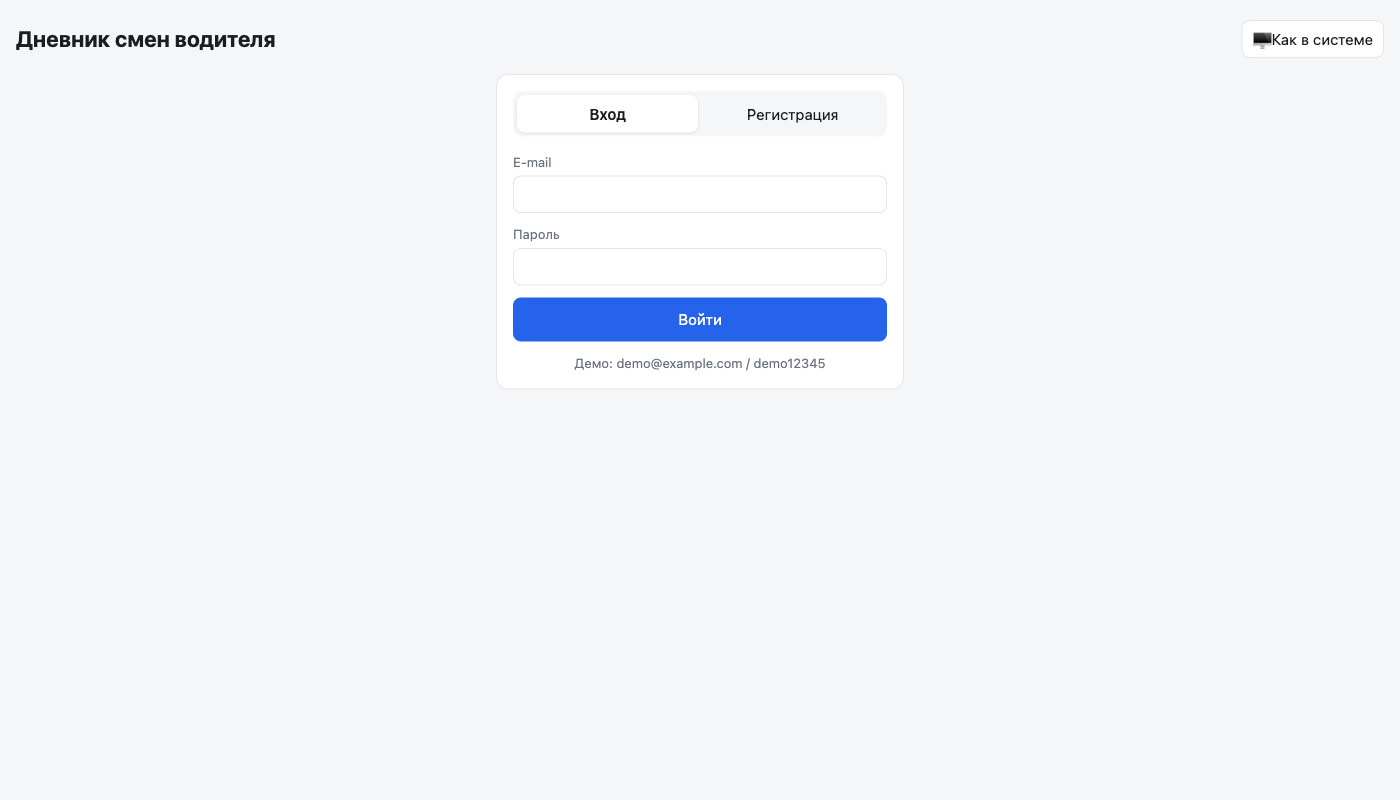
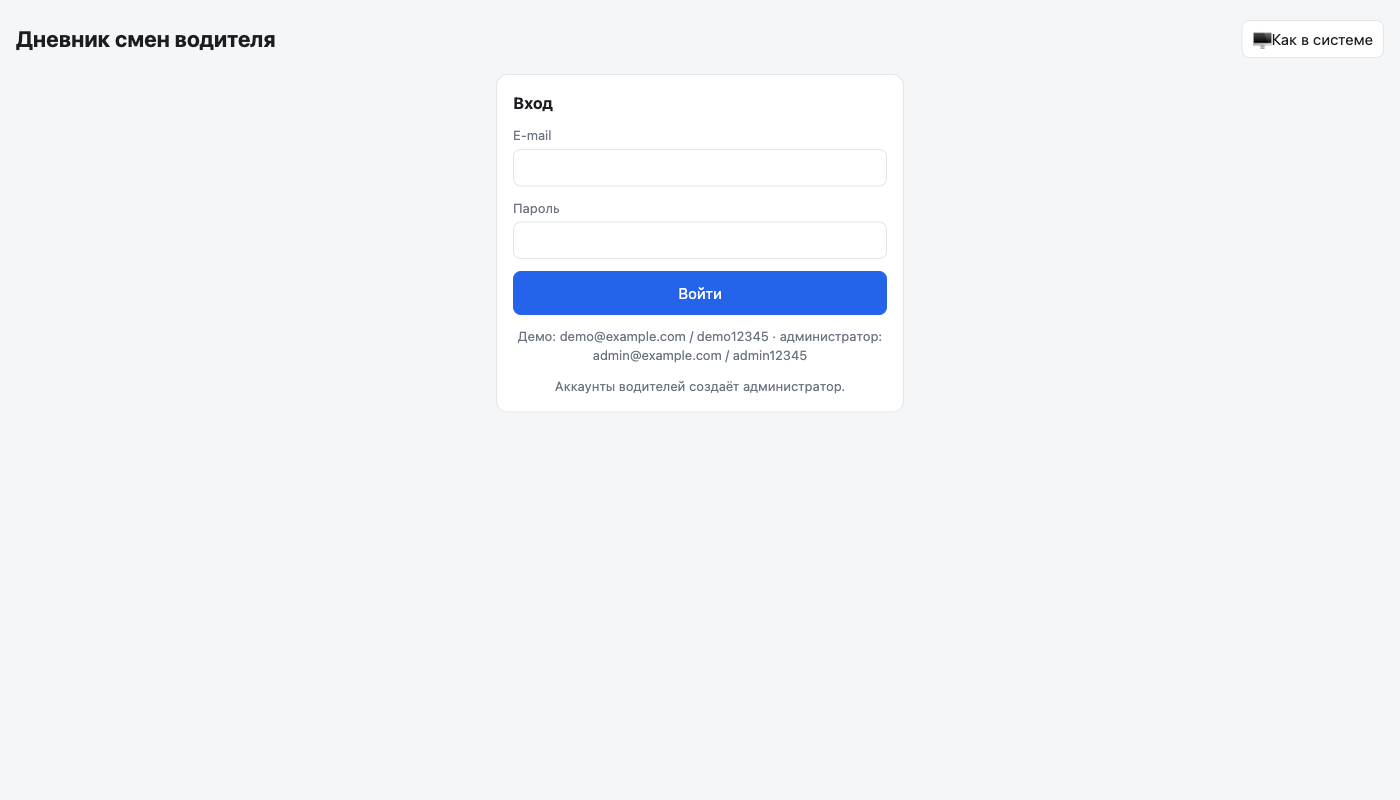
README and config for the admin role
- README: roles and rights table, creating the first admin, /api/admin/*,
  commission rules and rounding, schema changes for existing databases,
  new entries in "where AI got it wrong"
- ADMIN_EMAIL / ADMIN_PASSWORD in docker-compose.yml and .env.example
- Login and day screenshots retaken on the Docker build

diff --git a/README.md b/README.md
@@ -1,12 +1,12 @@
 # Дневник смен водителя
 
-Веб-приложение для водителя: личный кабинет, сводка за день (поездки, выручка, комиссия, «на руки», наличные/карта), список поездок, переключение дней, добавление поездок.
+Веб-приложение для водителей и администратора. Водитель видит сводку за день (поездки, выручка, комиссия, «на руки», наличные/карта), список поездок, переключает дни и добавляет поездки. Администратор заводит водителей, задаёт им автомобиль и комиссию, смотрит их дневники и удаляет аккаунты.
 
 - **Сервер:** Python 3.12, FastAPI, Pydantic v2, psycopg 3
 - **База данных:** PostgreSQL 16
 - **Клиент:** одна HTML-страница на чистом JS, раздаётся тем же сервером (сборка не нужна)
 - **Запуск:** Docker Compose
-- **Тесты:** pytest на настоящей PostgreSQL (64 теста)
+- **Тесты:** pytest на настоящей PostgreSQL (145 тестов)
 
 ![Сводка за день](docs/screenshots/day.png)
 
@@ -16,11 +16,29 @@
 docker compose up --build
 ```
 
-Открыть http://127.0.0.1:8080 и войти демо-водителем: **demo@example.com / demo12345** — или зарегистрировать свой аккаунт.
+Открыть http://127.0.0.1:8080 и войти:
 
-Демо-водитель с поездками из `data/trips.json` создаётся один раз, в пустой базе (`SEED_DEMO=1`). Данные хранятся в томе `pgdata` и переживают перезапуск; начать с чистой базы: `docker compose down -v`.
+| Роль | E-mail | Пароль |
+|---|---|---|
+| Водитель | demo@example.com | demo12345 |
+| Администратор | admin@example.com | admin12345 |
 
-Переменные (пароль базы, `SEED_DEMO`, `COOKIE_SECURE` для HTTPS) — в [`.env.example`](.env.example); скопируйте его в `.env`, чтобы поменять значения.
+Демо-аккаунты создаются при `SEED_DEMO=1` (по умолчанию). Демо-водитель с поездками из `data/trips.json` появляется только в совсем пустой базе — если администратор его удалит, после перезапуска он не вернётся. Данные хранятся в томе `pgdata`; начать с чистой базы: `docker compose down -v`.
+
+Переменные — в [`.env.example`](.env.example); скопируйте его в `.env`, чтобы поменять значения.
+
+### Администратор
+
+Самостоятельной регистрации нет: аккаунты водителей создаёт администратор. Первого администратора можно создать тремя способами:
+
+1. **Переменные окружения** `ADMIN_EMAIL` и `ADMIN_PASSWORD` — аккаунт создаётся при старте, если такого e-mail ещё нет.
+2. **Команда** (пароль спрашивается интерактивно и не попадает в историю shell):
+   ```bash
+   docker compose exec app python -m app.create_admin boss@company.kz --name "Иван"
+   ```
+3. **Демо-администратор** при `SEED_DEMO=1` — для проверки, не для продакшена.
+
+Существующий аккаунт водителя никогда не повышается до администратора неявно.
 
 ## Локальная разработка и тесты
 
@@ -37,20 +55,42 @@ SEED_DEMO=1 .venv/bin/uvicorn app.main:app --port 8080 --reload
 
 ## Что сделано
 
-### Личный кабинет
-- Регистрация по e-mail и паролю, вход, выход.
-- Каждый водитель видит и добавляет только свои поездки.
-- Профиль: имя, автомобиль, часовой пояс и процент комиссии по умолчанию — подставляются в форму новой поездки (комиссия считается от суммы, пока её не поправили вручную).
-- Удаление аккаунта с подтверждением паролем: удаляются водитель, все его поездки и все сессии.
+### Роли и права
 
-| Вход | Профиль | Удаление аккаунта |
+| Действие | Водитель | Администратор |
 |---|---|---|
-| ![](docs/screenshots/login.png) | ![](docs/screenshots/profile.png) | ![](docs/screenshots/delete.png) |
+| Свой дневник: поездки, сводка, добавление | ✅ | — (403) |
+| Свой часовой пояс | ✅ | — |
+| Имя, автомобиль, комиссия, пароль водителя | только чтение (403) | ✅ |
+| Список водителей с итогами и поиском | — (403) | ✅ |
+| Дневник любого водителя | — | ✅ только чтение |
+| Создание и удаление водителей | — | ✅ |
+
+### Администратор
+- Список водителей: имя, e-mail, автомобиль, комиссия, число поездок, выручка, «на руки», последняя поездка; поиск по имени, e-mail и автомобилю.
+- Добавление и редактирование водителя в окне; новый пароль завершает все сессии водителя.
+- Удаление с подтверждением вводом e-mail водителя: удаляются аккаунт, все поездки и сессии.
+- Дневник водителя только для чтения — тот же календарь, сводка и поездки, без формы добавления.
+- Администраторы через API водителей не видны (404), поэтому ни себя, ни другого администратора изменить или удалить нельзя.
+
+| Водители | Дневник водителя | Удаление |
+|---|---|---|
+| ![](docs/screenshots/admin-drivers.png) | ![](docs/screenshots/admin-diary.png) | ![](docs/screenshots/admin-delete.png) |
+
+### Водитель
+- Вход по e-mail и паролю, выход.
+- Видит и добавляет только свои поездки.
+- Профиль: имя, автомобиль и комиссия только для чтения («задаёт администратор»), меняется только часовой пояс — он подставляется в форму новой поездки.
+- **Комиссия:** если администратор задал процент, сервер сам считает комиссию каждой поездки, а поле в форме заблокировано и показывает расчёт. Если процент не задан, водитель вводит комиссию вручную.
+- Если администратор поменял процент, пока у водителя открыта вкладка, при следующей отправке форма перечитывает профиль, переключает режим поля и просит проверить данные.
+
+| Вход | Профиль | Комиссия от администратора |
+|---|---|---|
+| ![](docs/screenshots/login.png) | ![](docs/screenshots/profile.png) | ![](docs/screenshots/commission-auto.png) |
 
 ### Дневник
-- Слева — календарь (дни с поездками отмечены точкой, клик открывает день) и список дней с числом поездок и суммой «на руки»; кнопки ← → переходят к соседнему дню с поездками.
-- В центре — сводка за день и таблица поездок.
-- Справа — форма добавления; ошибки валидации показываются под полями.
+- Слева — календарь (дни с поездками отмечены точкой) и список дней с числом поездок и суммой «на руки»; кнопки ← → переходят к соседнему дню с поездками.
+- В центре — сводка за день и таблица поездок; справа — форма добавления, ошибки показываются под полями.
 - Всплывающие уведомления, светлая/тёмная тема (по умолчанию как в системе), адаптивная вёрстка.
 
 | Ошибки под полями | Тёмная тема | Телефон |
@@ -61,21 +101,27 @@ SEED_DEMO=1 .venv/bin/uvicorn app.main:app --port 8080 --reload
 
 Интерактивная документация: http://127.0.0.1:8080/docs
 
-| Метод | Путь | Описание |
-|---|---|---|
-| POST | `/api/auth/register` | Регистрация `{email, password, name}`, сразу открывает сессию |
-| POST | `/api/auth/login` | Вход `{email, password}` |
-| POST | `/api/auth/logout` | Выход |
-| GET | `/api/me` | Профиль |
-| PATCH | `/api/me` | Изменить профиль (только присланные поля) |
-| DELETE | `/api/me` | Удалить аккаунт `{password}` |
-| GET | `/api/days` | Дни с поездками: `[{date, count, net}]` |
-| GET | `/api/trips?date=YYYY-MM-DD` | Поездки за день |
-| GET | `/api/summary?date=YYYY-MM-DD` | Сводка за день |
-| POST | `/api/trips` | Добавить поездку |
-| GET | `/api/health` | Проверка сервиса и базы (для healthcheck) |
+| Метод | Путь | Кто | Описание |
+|---|---|---|---|
+| POST | `/api/auth/login` | все | Вход `{email, password}` |
+| POST | `/api/auth/logout` | все | Выход |
+| GET | `/api/me` | все | Свой профиль (с `role`) |
+| PATCH | `/api/me` | водитель | Только `{default_tz}`; любое другое поле → 403 |
+| GET | `/api/days` | водитель | Дни с поездками: `[{date, count, net}]` |
+| GET | `/api/trips?date=YYYY-MM-DD` | водитель | Поездки за день |
+| GET | `/api/summary?date=YYYY-MM-DD` | водитель | Сводка за день |
+| POST | `/api/trips` | водитель | Добавить поездку |
+| GET | `/api/admin/drivers?q=` | админ | Водители с итогами, поиск |
+| POST | `/api/admin/drivers` | админ | Создать `{email, password, name, car, default_tz, default_commission_pct}` |
+| GET | `/api/admin/drivers/{id}` | админ | Карточка водителя |
+| PATCH | `/api/admin/drivers/{id}` | админ | Изменить имя, авто, комиссию, пояс, пароль |
+| DELETE | `/api/admin/drivers/{id}` | админ | Удалить водителя с поездками |
+| GET | `/api/admin/drivers/{id}/days` | админ | Дневник водителя: дни |
+| GET | `/api/admin/drivers/{id}/trips?date=` | админ | Дневник водителя: поездки |
+| GET | `/api/admin/drivers/{id}/summary?date=` | админ | Дневник водителя: сводка |
+| GET | `/api/health` | все | Проверка сервиса и базы (для healthcheck) |
 
-Все методы, кроме регистрации, входа и `health`, требуют сессию (cookie) и без неё отвечают **401**.
+Без сессии все методы, кроме входа и `health`, отвечают **401**; при чужой роли — **403**.
 
 ```bash
 curl -c jar -H 'Content-Type: application/json' \
@@ -97,77 +143,84 @@ curl -b jar -H 'Content-Type: application/json' http://127.0.0.1:8080/api/trips 
 | 201 | Поездка создана |
 | 200 | Такая поездка уже есть (повторная отправка) — возвращается существующая, дубль не создаётся |
 | 409 | У водителя уже есть поездка с этим `id`, но с другими данными |
-| 422 | Ошибка валидации; в `detail` — **все** ошибки сразу, у каждой своё поле (`loc`) и код (`type`) |
+| 422 | Ошибка валидации; в `detail` — **все** ошибки сразу, у каждой своё поле (`loc`) и код (`type`). `commission_fixed` — прислана комиссия, отличная от рассчитанной по проценту администратора (`ctx.expected`) |
 
 ## Принятые решения
 
 1. **К какому дню относится поездка — по локальному времени начала**, с тем смещением, которое записано в самой поездке (`+05:00`), а не по UTC. Иначе поездка в 02:10 по местному времени (21:10 UTC предыдущего дня) уехала бы во вчерашний день. Поездка через полночь (23:40–00:15) относится к дню начала.
 2. **Смещение хранится в PostgreSQL отдельно.** `timestamptz` хранит момент времени и теряет исходное смещение: из базы вернулось бы `21:10Z`, и правило из пункта 1 сломалось бы. Поэтому у поездки есть колонки `start_offset_min`, `end_offset_min` и вычисленный `local_day` (по нему индекс и выборка дня), а API отдаёт время ровно в том виде, в каком его прислали.
-3. **«На руки» = выручка − комиссия.** Деньги — целые числа (тенге), без float.
-4. **Валидация:** `amount > 0`; `end > start`; `0 ≤ commission ≤ amount`; `payment` ∈ {`cash`, `card`}; у времени обязателен часовой пояс. Те же ограничения продублированы `CHECK`-ами в схеме.
-5. **Защита от дублей — на уровне базы:** первичный ключ `(driver_id, id)` и `INSERT … ON CONFLICT DO NOTHING`. Если строка не вставилась, существующая сравнивается с присланной:
+3. **Комиссия строго меньше суммы** (`0 ≤ commission < amount`): поездка всегда оставляет водителю что-то «на руки». Процент администратора — от 0 до 100, не включая 100. Правило продублировано `CHECK`-ами в схеме.
+4. **Комиссия по проценту считается на сервере:** `сумма × % / 100` с округлением половины вверх в точной десятичной арифметике (`2350 × 15%` = 352,5 → **353**; встроенный `round()` в Python дал бы 352, а float — дрейф вида 123,4999…). Клиент показывает тот же расчёт, но не отправляет его — источник истины сервер. Смена процента не пересчитывает уже записанные поездки. Если для очень малой суммы округление доводит комиссию до всей суммы (1 ₸ при 50%), поездка отклоняется.
+5. **«На руки» = выручка − комиссия.** Деньги — целые числа (тенге), без float.
+6. **Защита от дублей — на уровне базы:** первичный ключ `(driver_id, id)` и `INSERT … ON CONFLICT DO NOTHING`. Если строка не вставилась, существующая сравнивается с присланной:
    - те же данные → 200, существующая запись;
    - другие данные → 409 (молча перезаписывать или игнорировать опасно);
-   - запрос без `id` → сервер вычисляет `id` как хеш содержимого, поэтому повторная отправка формы тоже не создаст дубль;
+   - запрос без `id` → сервер вычисляет `id` как хеш содержимого (после подстановки комиссии), поэтому повторная отправка формы тоже не создаст дубль;
    - время сравнивается как момент: `10:00+05:00` и `05:00Z` — одна и та же поездка;
    - одинаковый `id` у разных водителей — не конфликт.
 
-   Это корректно и при одновременных запросах, и при нескольких процессах: тест отправляет одну поездку из 8 потоков и проверяет, что запись ровно одна.
-6. **Аутентификация:**
+   Тест отправляет одну поездку из 8 потоков и проверяет, что запись ровно одна.
+7. **Роли.** Колонка `role` (`driver` | `admin`). Администратор — не водитель: своего дневника у него нет. Права проверяются зависимостями FastAPI (`require_driver`, `require_admin`) на каждом методе; поле профиля, которое водителю менять нельзя, даёт явный 403, а не молча игнорируется.
+8. **Аутентификация:**
    - пароли — `scrypt` с солью (стандартная библиотека Python);
    - сессия — случайный токен в cookie `HttpOnly; SameSite=Lax` на 30 дней, в базе хранится только SHA-256 токена;
-   - неверный пароль и неизвестный e-mail дают одинаковый ответ за одинаковое время (для неизвестного e-mail проверяется фиктивный хеш);
-   - 5 неудачных попыток входа за 15 минут → 429 с `Retry-After`; тот же лимит на подтверждение пароля при удалении аккаунта;
-   - CSRF: изменяющие запросы принимают только `application/json`, которое не может отправить обычная HTML-форма с чужого сайта.
-7. **Удаление аккаунта** требует пароль: одной украденной cookie недостаточно, чтобы стереть данные. Поездки и сессии удаляются каскадно (`ON DELETE CASCADE`).
+   - неверный пароль и неизвестный e-mail дают одинаковый ответ за одинаковое время;
+   - 5 неудачных попыток входа за 15 минут → 429 с `Retry-After`;
+   - CSRF: изменяющие запросы принимают только `application/json`, которое не может отправить HTML-форма с чужого сайта.
+9. **Изменения схемы для существующих баз** применяются при старте и ничего не ломают: `ADD COLUMN IF NOT EXISTS role`, а старое ограничение `commission <= amount` заменяется на `< amount` с `NOT VALID` — уже записанные строки остаются, новое правило действует для новых. Строки из базы не перепроверяются текущими правилами модели, поэтому старая поездка с комиссией, равной сумме, по-прежнему открывается.
 
 ### Ограничения
 
 - Лимит попыток входа хранится в памяти процесса, поэтому приложение запускается одним воркером; для нескольких экземпляров лимит нужно вынести в общее хранилище (таблица или Redis).
-- Нет восстановления пароля и подтверждения e-mail — для этого нужна отправка писем.
-- Схема создаётся при старте (`CREATE TABLE IF NOT EXISTS`); при развитии проекта стоит перейти на миграции (Alembic).
+- Нет восстановления пароля и подтверждения e-mail — пароль водителю задаёт и меняет администратор.
+- Схема создаётся и обновляется при старте; при развитии проекта стоит перейти на миграции (Alembic).
+- Администратор не может редактировать или удалять поездки водителя — только смотреть.
 - Две действительно разные поездки без `id` с полностью совпадающими временем и суммами считаются одной; клиент с собственными `id` такого ограничения не имеет.
 
 ## Структура
 
 ```
 app/
-  main.py        # FastAPI: роуты, зависимости (сессия, CSRF), запуск
-  models.py      # Pydantic-модели и валидация
-  schema.sql     # схема PostgreSQL
-  db.py          # пул соединений, применение схемы
-  storage.py     # поездки: выборки и идемпотентное добавление
-  accounts.py    # водители, сессии, профиль
-  security.py    # хеширование паролей, лимит попыток входа
-  summary.py     # расчёт сводки за день (чистая функция)
-  seed.py        # демо-водитель
+  main.py          # FastAPI: вход, профиль, поездки водителя, запуск
+  admin.py         # /api/admin/*: водители и их дневники
+  deps.py          # зависимости: сессия, роли, CSRF, cookie
+  commission.py    # расчёт комиссии по проценту
+  models.py        # Pydantic-модели и валидация
+  schema.sql       # схема PostgreSQL и её обновление для старых баз
+  db.py            # пул соединений, применение схемы
+  storage.py       # поездки: выборки и идемпотентное добавление
+  accounts.py      # аккаунты, сессии, профиль, запросы администратора
+  security.py      # хеширование паролей, лимит попыток входа
+  summary.py       # расчёт сводки за день (чистая функция)
+  seed.py          # демо-аккаунты, создание администратора
+  create_admin.py  # команда `python -m app.create_admin`
 static/index.html
-data/trips.json  # демо-данные
-db/init/         # создание тестовой базы в контейнере
-tests/           # test_summary, test_storage, test_api, test_auth, test_isolation
+data/trips.json    # демо-данные
+db/init/           # создание тестовой базы в контейнере
+tests/             # summary, storage, api, auth, isolation, admin, commission, admin_bootstrap
 Dockerfile, docker-compose.yml, .env.example
 ```
 
 ## Как использовался ИИ
 
-Проект сделан вместе с Claude Code. Сначала согласовали план (стек, API, правила дня и дублей), затем код писался по шагам с подтверждением каждого шага; после каждого шага — тесты и проверка в браузере (Playwright). Личный кабинет и переход на PostgreSQL + Docker — отдельный план и шесть шагов, по коммиту на шаг.
+Проект сделан вместе с Claude Code. Каждая крупная задача начиналась с плана, который я согласовывала (стек, API, правила дня и дублей; затем личный кабинет, PostgreSQL и Docker; затем роль администратора), после чего код писался по шагам с подтверждением каждого шага, по коммиту на шаг. После каждого шага — тесты и проверка в браузере (Playwright).
 
 **Где ИИ ошибся и что исправлено:**
 
-- **Валидация показывала только одну ошибку.** Первая версия проверяла `end > start` и `commission ≤ amount` в общем `model_validator` Pydantic. Такой валидатор не запускается, если хотя бы одно поле уже невалидно, — при сумме 0 и окончании раньше начала пользователь видел только ошибку суммы. Нашлось при ручной проверке формы; перенесено в валидаторы полей, добавлен тест, что все ошибки приходят одним ответом.
-- **Ловушка `timestamptz`.** При переходе на PostgreSQL наивное хранение времени в `timestamptz` потеряло бы смещение `+05:00` и вернуло бы ошибку с отнесением ночных поездок к предыдущему дню. Смещение и день вынесены в отдельные колонки, добавлен тест на сохранение и чтение.
-- **Тесты не запускались** — pytest не находил пакет `app`; добавлен `pytest.ini` с `pythonpath`.
-- **`form.name` в JS** — у HTML-формы есть собственное свойство `name`, обращение к полю «Имя» через него неоднозначно; заменено на `form.elements.name`.
-- **Уведомления перекрывали кнопки навигации** в шапке после её появления — перенесены в правый нижний угол.
-- **Мелочи интерфейса:** «1 поездок» вместо «1 поездка» (добавлено склонение), «Октябрь 2026 Г.» из-за CSS `text-transform: capitalize`, обрезанная колонка таблицы на телефоне.
+- **Валидация показывала только одну ошибку.** Первая версия проверяла `end > start` и комиссию в общем `model_validator` Pydantic. Такой валидатор не запускается, если хотя бы одно поле уже невалидно. Нашлось при ручной проверке формы; перенесено в валидаторы полей, добавлен тест, что все ошибки приходят одним ответом.
+- **Ловушка `timestamptz`.** При переходе на PostgreSQL наивное хранение времени потеряло бы смещение `+05:00` и вернуло бы ошибку с отнесением ночных поездок к предыдущему дню. Смещение и день вынесены в отдельные колонки, добавлен тест.
+- **Старые строки ломали чтение дня.** После ужесточения правила комиссии модель `Trip` перепроверяла строки из базы, и поездка, записанная по старому правилу, давала 500 на весь день. Нашлось тестом на перенос схемы; строки из базы больше не валидируются повторно.
+- **500 вместо 422** на `PATCH /api/me` с неверным часовым поясом: тело проверялось вручную, и `ValidationError` не превращалась в ответ. Исправлено, добавлены тесты.
+- **Неаккуратный код,** пойманный при самопроверке: путаная обрезка пробелов в валидаторе (пароль мог обрезаться); `seed_demo` возвращал бы удалённого демо-водителя после перезапуска; `form.name` в JS неоднозначно (у формы есть своё свойство `name`).
+- **Коммит с чужим изменением.** Ужесточение `commission > amount` → `>=` было сделано в редакторе между шагами, а ИИ закоммитил его вместе со своими правками через `git add -A`, не просмотрев diff. Заметил при следующем чтении файла и спросил, что с этим делать; дальше коммитились только свои файлы после просмотра diff. Само изменение я решила оставить, и ИИ привёл к нему остальной проект (схема, процент, тексты, тесты).
+- **Мелочи интерфейса:** склонение «1 поездок», «Октябрь 2026 Г.» из-за CSS `capitalize`, обрезанные колонки и кнопки таблиц на телефоне, уведомления поверх кнопок шапки, повтор «Администратор» в шапке, устаревшее значение комиссии в разблокированном поле.
 
-**Что поправлено по моему ревью:**
+**Что решено и поправлено по моему ревью:**
 
-- статичное сообщение под формой заменено на всплывающие уведомления;
-- ошибки валидации перенесены под поля;
-- поля даты были слишком узкими — дата/время окончания не помещались; форма вынесена в боковую колонку, поля на всю ширину;
-- добавлена боковая панель с календарём и списком дней для быстрого перехода, а не только листание стрелками;
-- добавлен переключатель темы;
-- добавлены личный кабинет водителя и удаление аккаунта;
-- выбраны PostgreSQL вместо JSON-файла и запуск в Docker;
-- комментарии в коде переведены на английский.
+- статичное сообщение под формой → всплывающие уведомления; ошибки валидации — под полями;
+- узкие поля даты → форма в боковой колонке; боковая панель с календарём и списком дней;
+- переключатель темы;
+- личный кабинет водителя; PostgreSQL вместо JSON-файла; запуск в Docker;
+- роль администратора: создание и удаление водителей только им, водитель не меняет имя, автомобиль и комиссию; просмотр дневника водителя;
+- комиссия строго меньше суммы; по проценту — считается сервером, без процента — вводится водителем;
+- комментарии в коде на английском.
